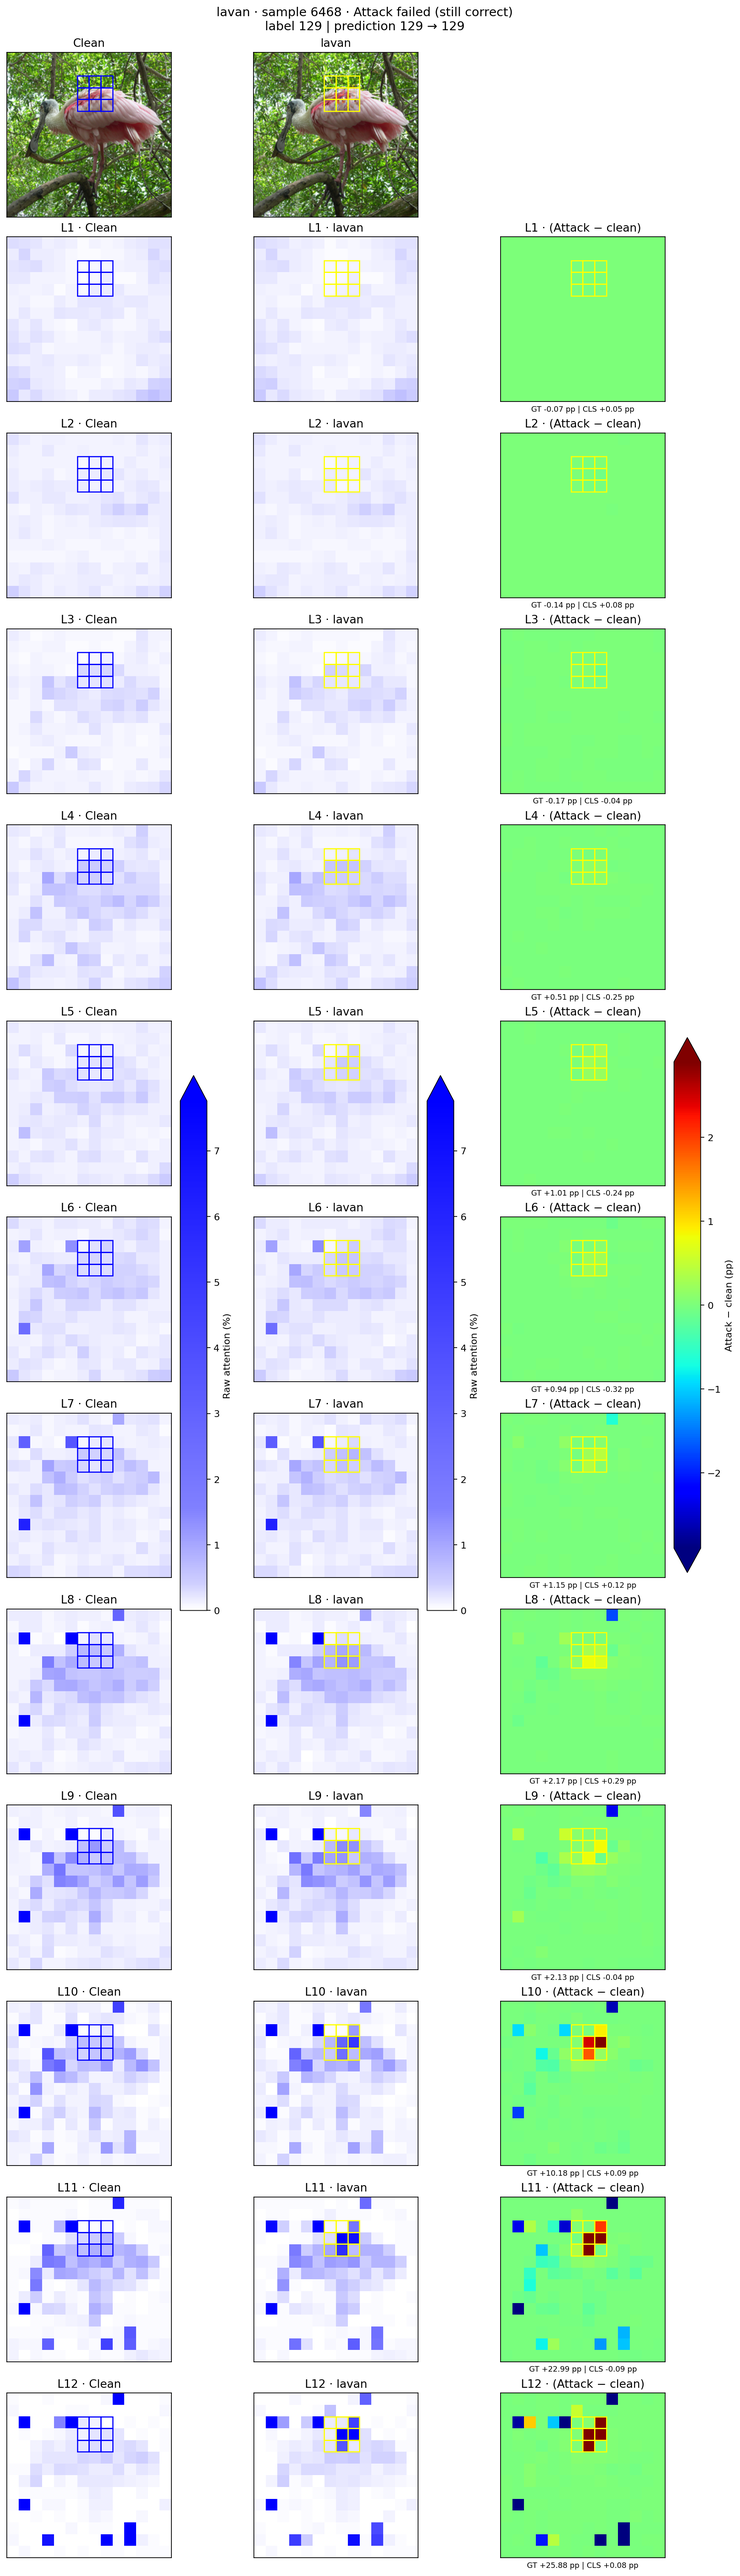
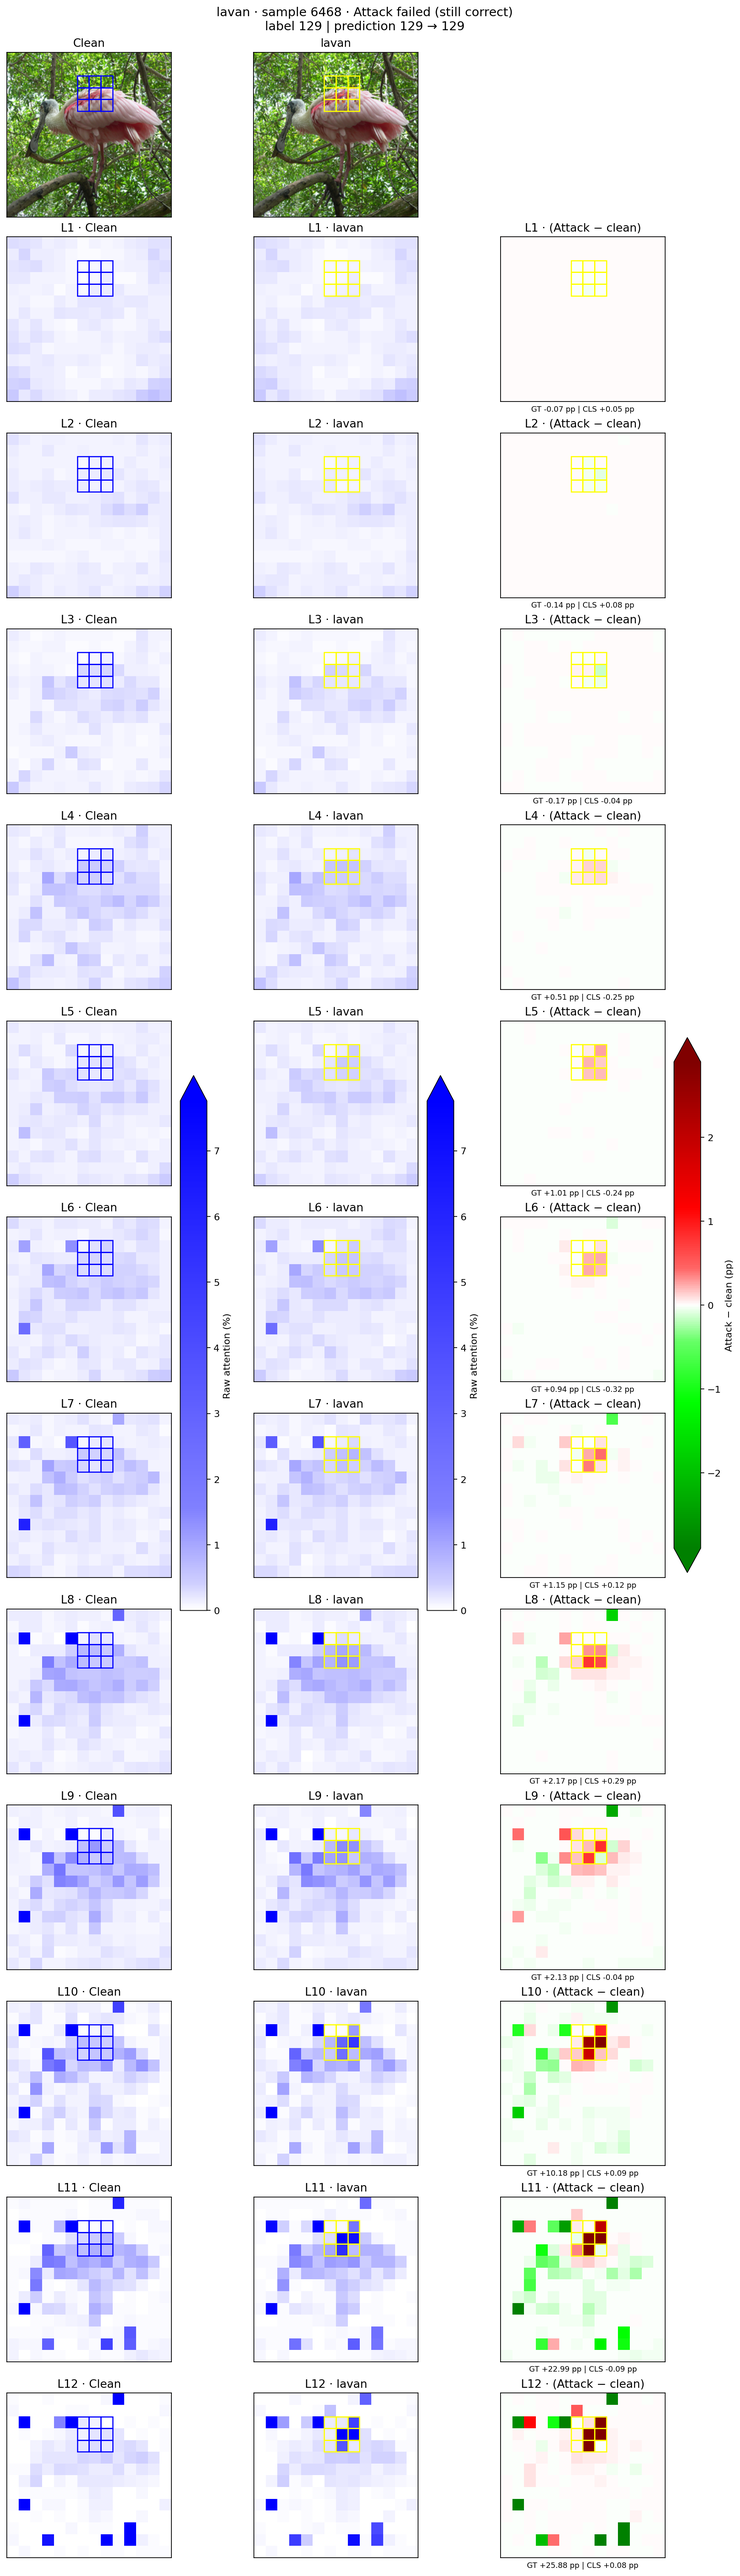
Revert "Difference heatmap: conventional rainbow (jet), blue=lost, green=0, red=more attention"
This reverts commit b30d27368d687e3dd4b7cf736e14189604a0877a.

Changed region(s): [[0.6517, 0.0937, 0.9621, 0.9997]]

diff --git a/01_patch_attack_detector/experiments/characterization/02_compare_attention_success_failure.py b/01_patch_attack_detector/experiments/characterization/02_compare_attention_success_failure.py
@@ -28,10 +28,15 @@ OUTCOMES = {'attack_success': (1, 'Attack succeeded (misclassified)'),
             'attack_fail': (0, 'Attack failed (still correct)')}
 # 방어 관점에서 공격 성공=critical, 실패=good인 상태 색 사용 -- 이름의 의미와 색이 서로 확인해준다.
 OUTCOME_COLORS = {'attack_success': '#d03b3b', 'attack_fail': '#0ca30c'}
-# raw attention: 흰색 -> 순수 파랑(작은 값도 흰색과 구분되게 곧바로 연파랑으로 건너뛴다).
-# 차이: 히트맵에서 보편적인 무지개(jet) -- 파랑=감소, 초록=변화 없음(0), 빨강=attention이 더 몰림.
+# 양 끝이 검정으로 가면 원본/공격/차이가 다 어두워져서 구분이 안 된다 -- 끝 색을 원색으로 둔다.
+# raw attention: 흰색 -> 순수 파랑. 차이: 감소=연초록->밝은 초록->진한 초록(#008000), 0=흰색, 증가(attention이 더 몰림)=순수 빨강.
 SEQUENTIAL = LinearSegmentedColormap.from_list('white_blue', [(0.0, '#ffffff'), (0.05, '#d0d0ff'), (0.2, '#8080ff'), (1.0, '#0000ff')])
-DIVERGING = plt.get_cmap('jet')
+# 0은 흰색. 흰색에서 바로 연한 초록/연한 빨강으로 건너뛴 뒤 원색으로 진해진다 -- 선형으로
+# 흰색->원색을 이으면 작은 변화가 흰색과 구분이 안 된다. 값 스케일은 선형(눈금 간격 균일)으로 두고
+# 작은 값을 보이게 하는 건 색 램프 쪽에서 한다.
+DIVERGING = LinearSegmentedColormap.from_list('green_white_red', [
+    (0.0, '#008000'), (0.3, '#00ff00'), (0.425, '#66ff66'), (0.475, '#ccffcc'), (0.5, '#ffffff'),
+    (0.525, '#ffcccc'), (0.575, '#ff6666'), (0.7, '#ff0000'), (1.0, '#800000')])
 
 METRICS = {'tv': 'Total variation', 'gt_delta': 'Attention change in GT region (pp)'}
 
@@ -366,9 +371,9 @@ def main():
         '(not renormalized away). GT patches (any pixel actually changed) are outlined with '
         'ground_truth/draw_boxes.py\'s colors, reused directly: blue on Clean panels, yellow on '
         'attacked/difference panels.\n'
-        '- Raw attention: white -> pure blue. Attack-minus-clean: the conventional rainbow (jet) — '
-        'blue = attention lost, green = no change (0), red = attention concentrated more. The colorbars '
-        'are linear with evenly spaced ticks. Both '
+        '- Raw attention: white -> pure blue. Attack-minus-clean: pure green (attention lost) -> '
+        'white (no change) -> pure red (attention concentrated more). Ends are pure colors so panels stay '
+        'distinguishable at the extremes; the color ramps jump quickly off white so small values stay visible, while the colorbars are linear with evenly spaced ticks. Both '
         'use a 99.5th-percentile cap (not the true max) shared across every block of a given '
         'attack, so a single extreme sample or patch can\'t blank out the rest, while the real '
         'block-to-block story (near-zero early on, then increasingly concentrated) still shows. '

diff --git a/01_patch_attack_detector/results/characterization/README.md b/01_patch_attack_detector/results/characterization/README.md
@@ -4,7 +4,7 @@ Generated from run `/home/jooyumm/ViT_robust/01_patch_attack_detector/results/ch
 
 - One folder per attack (`patchfool/`, `lavan/`), no outcome subfolders — the outcome is in the filename instead: `ex_attack_success_*` (attack succeeded, image misclassified) vs. `ex_attack_fail_*` (attack failed, image still correct). These names describe the ATTACK's outcome, not a pipeline failure.
 - Maps show CLS-query attention to each patch key, head-averaged, CLS key mass kept (not renormalized away). GT patches (any pixel actually changed) are outlined with ground_truth/draw_boxes.py's colors, reused directly: blue on Clean panels, yellow on attacked/difference panels.
-- Raw attention: white -> pure blue. Attack-minus-clean: the conventional rainbow (jet) — blue = attention lost, green = no change (0), red = attention concentrated more. The colorbars are linear with evenly spaced ticks. Both use a 99.5th-percentile cap (not the true max) shared across every block of a given attack, so a single extreme sample or patch can't blank out the rest, while the real block-to-block story (near-zero early on, then increasingly concentrated) still shows. Values above the cap are drawn at the top color, marked by the colorbar's arrow, not silently redrawn.
+- Raw attention: white -> pure blue. Attack-minus-clean: pure green (attention lost) -> white (no change) -> pure red (attention concentrated more). Ends are pure colors so panels stay distinguishable at the extremes; the color ramps jump quickly off white so small values stay visible, while the colorbars are linear with evenly spaced ticks. Both use a 99.5th-percentile cap (not the true max) shared across every block of a given attack, so a single extreme sample or patch can't blank out the rest, while the real block-to-block story (near-zero early on, then increasingly concentrated) still shows. Values above the cap are drawn at the top color, marked by the colorbar's arrow, not silently redrawn.
 - GT Δ: attention change summed over GT patches (raw, not renormalized). TV: 0.5 × sum(|attack - clean|) over all 197 tokens including CLS.
 - The layer table uses the *median* over all clean-correct samples; flagged blocks (⚠) are exploratory candidates by descriptive statistics, not a significance test or causal claim.
 - No CSVs here by design — the table above is the numeric result worth keeping. Per-sample/per-head raw numbers are recomputable from `/home/jooyumm/ViT_robust/01_patch_attack_detector/results/characterization/attention_comparison/run_s42/data/` with `compute_metrics()` in this folder's script if ever needed.
